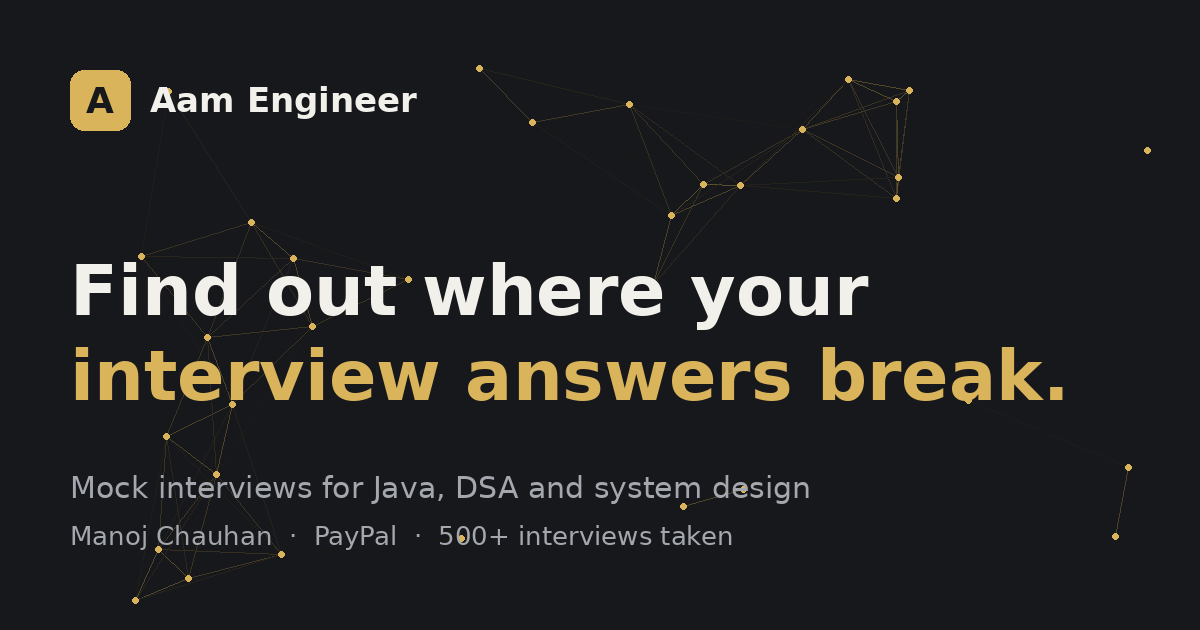
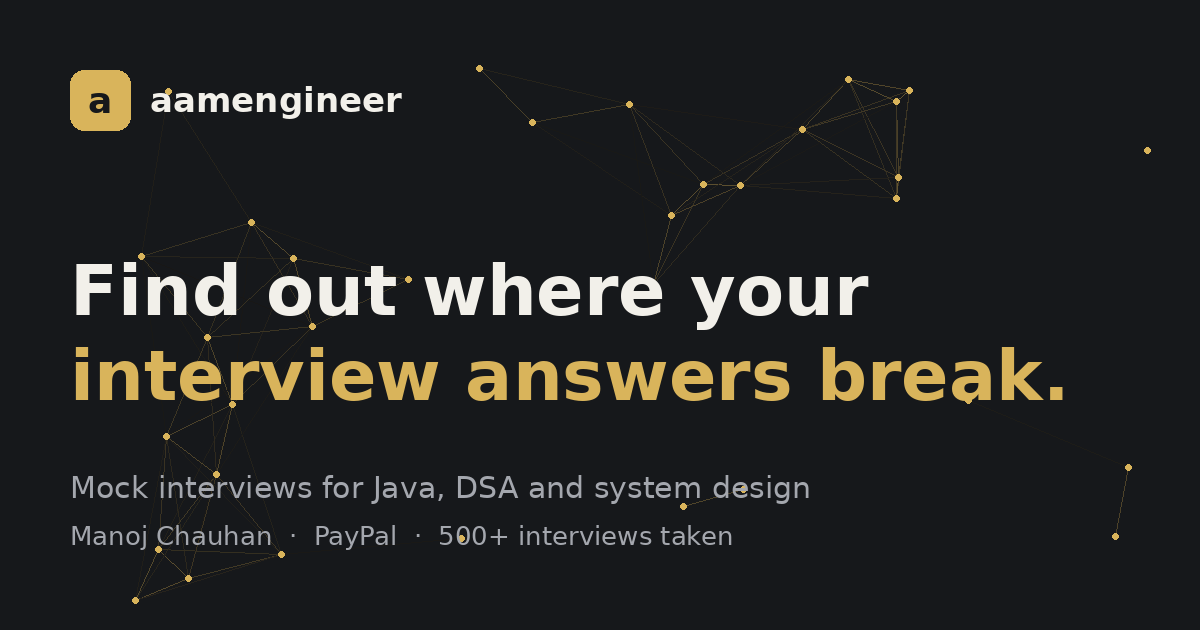
v6

Changed region(s): [[0.1233, 0.1206, 0.3392, 0.2111], [0.0617, 0.1206, 0.0925, 0.181]]

diff --git a/index.html b/index.html
@@ -3,11 +3,11 @@
 <head>
 <meta charset="utf-8">
 <meta name="viewport" content="width=device-width, initial-scale=1">
-<title>Aam Engineer Mock Interviews</title>
-<meta name="description" content="Aam Engineer: 1:1 mock interviews for Java, DSA and system design from Manoj Chauhan, a PayPal engineer who has taken 500+ technical interviews.">
+<title>aamengineer Mock Interviews</title>
+<meta name="description" content="aamengineer: 1:1 mock interviews for Java, DSA and system design from Manoj Chauhan, a PayPal engineer who has taken 500+ technical interviews.">
 <meta property="og:type" content="website">
-<meta property="og:title" content="Aam Engineer Mock Interviews">
-<meta property="og:description" content="Aam Engineer: 1:1 mock interviews for Java, DSA and system design from Manoj Chauhan, a PayPal engineer who has taken 500+ technical interviews.">
+<meta property="og:title" content="aamengineer Mock Interviews">
+<meta property="og:description" content="aamengineer: 1:1 mock interviews for Java, DSA and system design from Manoj Chauhan, a PayPal engineer who has taken 500+ technical interviews.">
 <meta property="og:image" content="https://manuniet.github.io/og.png">
 <meta property="og:url" content="https://manuniet.github.io/">
 <meta name="twitter:card" content="summary_large_image">
@@ -19,6 +19,15 @@
 <link rel="stylesheet" href="styles.css">
 <script async src="https://www.googletagmanager.com/gtag/js?id=G-1EF49W8H0L"></script>
 <script>
+  (function () {
+    var m = ["aamengineer.manoj", "gmail.com"].join("@");
+    document.querySelectorAll("[data-mail]").forEach(function (a) {
+      a.setAttribute("href", "mailto:" + m + "?subject=" + encodeURIComponent("Mock interview enquiry"));
+      if (a.hasAttribute("data-show")) a.textContent = m;
+    });
+  var wa = "https://wa.me/" + ["91", "7503188899"].join("") + "?text=" + encodeURIComponent("Hi Manoj, I'd like to know more about the mock interviews.");
+    document.querySelectorAll("[data-wa]").forEach(function (a) { a.setAttribute("href", wa); a.setAttribute("target", "_blank"); a.setAttribute("rel", "noopener"); });
+  })();
   window.dataLayer = window.dataLayer || [];
   function gtag(){dataLayer.push(arguments);}
   gtag('js', new Date());
@@ -28,7 +37,7 @@
 <body>
 <header class="top">
   <div class="wrap">
-    <a class="brand" href="index.html"><i>A</i><span>Aam Engineer<small>by Manoj Chauhan</small></span></a>
+    <a class="brand" href="index.html"><i>a</i><span>aamengineer<small>by Manoj Chauhan</small></span></a>
     <nav class="links" aria-label="Main">
       <a class="nl" href="index.html" aria-current="page">Mock interviews</a>
       <a class="nl" href="story.html">My story</a>
@@ -44,7 +53,7 @@
     <div class="hero"><canvas class="fx" aria-hidden="true"></canvas>
       <div class="hero-grid">
         <div>
-          <span class="tag">Aam Engineer · mock interviews for Java, DSA and system design</span>
+          <span class="tag">aamengineer · mock interviews for Java, DSA and system design</span>
           <h1>Find out where your interview answers break.</h1>
           <p class="lead">I have taken 500+ technical interviews. In one 60-minute session you get a realistic interview at your level and specific feedback you can act on the same week.</p>
           <div class="cta">
@@ -222,7 +231,7 @@
       </div>
       <div class="sec-body">
         <div class="prose">
-          <p>Rejection after rejection. Tough interviews. Mock after mock until my own work finally made sense out loud. Then an offer at 2 AM on 31 August 2021, and a feeling I can only call stillness.</p>
+          <p>More than 20 rejections. Tough interviews. Mock after mock until my own work finally made sense out loud. Then an offer at 2 AM on 31 August 2021, and a feeling I can only call stillness.</p>
           <p><a class="btn ghost" href="story.html">Read my story</a></p>
         </div>
       </div>
@@ -269,15 +278,15 @@
   <section class="final">
     <div class="wrap">
       <h2>Book one session and see where you stand.</h2>
-      <div class="cta"><a class="btn" data-book href="https://topmate.io/manoj_chauhan/">Book a 60-minute session</a><a class="btn ghost" href="https://www.linkedin.com/in/manojchauhan28/" target="_blank" rel="noopener">Message me on LinkedIn</a></div>
+      <div class="cta"><a class="btn" data-book href="https://topmate.io/manoj_chauhan/">Book a 60-minute session</a><a class="btn ghost" href="https://www.linkedin.com/in/manojchauhan28/" target="_blank" rel="noopener">Message me on LinkedIn</a><a class="btn ghost" data-mail href="#">Email me</a><a class="btn ghost" data-wa href="#">WhatsApp me</a></div>
     </div>
   </section>
 </main>
 
 <footer>
   <div class="wrap">
-    <span>Aam Engineer · Manoj Chauhan, Bengaluru<span class="vc" id="visit-count" hidden></span></span>
-    <span class="links"><a href="https://www.linkedin.com/in/manojchauhan28/" target="_blank" rel="noopener">LinkedIn</a><a href="https://www.instagram.com/themanojsphere" target="_blank" rel="noopener">Instagram</a></span>
+    <span>aamengineer · Manoj Chauhan, Bengaluru<span class="vc" id="visit-count" hidden></span></span>
+    <span class="links"><a data-mail data-show href="#">Email</a><a data-wa href="#">WhatsApp</a><a href="https://www.linkedin.com/in/manojchauhan28/" target="_blank" rel="noopener">LinkedIn</a><a href="https://www.instagram.com/themanojsphere" target="_blank" rel="noopener">Instagram</a></span>
   </div>
 </footer>
 <script>

diff --git a/story.html b/story.html
@@ -3,10 +3,10 @@
 <head>
 <meta charset="utf-8">
 <meta name="viewport" content="width=device-width, initial-scale=1">
-<title>My Story | Aam Engineer</title>
+<title>My Story | aamengineer</title>
 <meta name="description" content="How Manoj Chauhan moved from a service company to PayPal: rejections, tough interviews, mock practice and an offer at 2 AM.">
 <meta property="og:type" content="website">
-<meta property="og:title" content="My Story | Aam Engineer">
+<meta property="og:title" content="My Story | aamengineer">
 <meta property="og:description" content="How Manoj Chauhan moved from a service company to PayPal: rejections, tough interviews, mock practice and an offer at 2 AM.">
 <meta property="og:image" content="https://manuniet.github.io/og.png">
 <meta property="og:url" content="https://manuniet.github.io/">
@@ -19,6 +19,15 @@
 <link rel="stylesheet" href="styles.css">
 <script async src="https://www.googletagmanager.com/gtag/js?id=G-1EF49W8H0L"></script>
 <script>
+  (function () {
+    var m = ["aamengineer.manoj", "gmail.com"].join("@");
+    document.querySelectorAll("[data-mail]").forEach(function (a) {
+      a.setAttribute("href", "mailto:" + m + "?subject=" + encodeURIComponent("Mock interview enquiry"));
+      if (a.hasAttribute("data-show")) a.textContent = m;
+    });
+  var wa = "https://wa.me/" + ["91", "7503188899"].join("") + "?text=" + encodeURIComponent("Hi Manoj, I'd like to know more about the mock interviews.");
+    document.querySelectorAll("[data-wa]").forEach(function (a) { a.setAttribute("href", wa); a.setAttribute("target", "_blank"); a.setAttribute("rel", "noopener"); });
+  })();
   window.dataLayer = window.dataLayer || [];
   function gtag(){dataLayer.push(arguments);}
   gtag('js', new Date());
@@ -28,7 +37,7 @@
 <body>
 <header class="top">
   <div class="wrap">
-    <a class="brand" href="index.html"><i>A</i><span>Aam Engineer<small>by Manoj Chauhan</small></span></a>
+    <a class="brand" href="index.html"><i>a</i><span>aamengineer<small>by Manoj Chauhan</small></span></a>
     <nav class="links" aria-label="Main">
       <a class="nl" href="index.html">Mock interviews</a>
       <a class="nl" href="story.html" aria-current="page">My story</a>
@@ -44,7 +53,7 @@
     <div class="page-hero"><canvas class="fx" aria-hidden="true"></canvas>
       <span class="tag">My story</span>
       <h1>From a service company to PayPal.</h1>
-      <p class="lead">It took rejections, tough interviews and a lot of practice. This is how it happened.</p>
+      <p class="lead">It took more than 20 rejections, tough interviews and a lot of practice. This is how it happened.</p>
       <ul class="rail" aria-label="Career timeline">
         <li><b>2014</b>Accenture</li>
         <li><b>2017</b>Deloitte</li>
@@ -88,11 +97,11 @@
     <div class="wrap">
       <div class="sec-head">
         <div class="label">03 / the rejections</div>
-        <h2>Rejected. Again.</h2>
+        <h2>Rejected. More than 20 times.</h2>
       </div>
       <div class="sec-body">
         <div class="prose">
-          <p>Rejection came after rejection. The interviews were tough and they went deeper than I expected. Interviewers asked follow-up questions about my own projects, about decisions I had never really questioned.</p>
+          <p>More than 20 rejections. That is how many times I heard no before I heard yes. The interviews were tough and they went deeper than I expected. Interviewers asked follow-up questions about my own projects, about decisions I had never really questioned.</p>
           <p>Each rejection hurt. Each one also showed me exactly what was missing.</p>
         </div>
       </div>
@@ -163,15 +172,15 @@
   <section class="final">
     <div class="wrap">
       <h2>Want to practise with someone who has been on both sides?</h2>
-      <div class="cta"><a class="btn" data-book href="https://topmate.io/manoj_chauhan/">Book a 60-minute session</a></div>
+      <div class="cta"><a class="btn" data-book href="https://topmate.io/manoj_chauhan/">Book a 60-minute session</a><a class="btn ghost" data-mail href="#">Email me</a><a class="btn ghost" data-wa href="#">WhatsApp me</a></div>
     </div>
   </section>
 </main>
 
 <footer>
   <div class="wrap">
-    <span>Aam Engineer · Manoj Chauhan, Bengaluru<span class="vc" id="visit-count" hidden></span></span>
-    <span class="links"><a href="https://www.linkedin.com/in/manojchauhan28/" target="_blank" rel="noopener">LinkedIn</a><a href="https://www.instagram.com/themanojsphere" target="_blank" rel="noopener">Instagram</a></span>
+    <span>aamengineer · Manoj Chauhan, Bengaluru<span class="vc" id="visit-count" hidden></span></span>
+    <span class="links"><a data-mail data-show href="#">Email</a><a data-wa href="#">WhatsApp</a><a href="https://www.linkedin.com/in/manojchauhan28/" target="_blank" rel="noopener">LinkedIn</a><a href="https://www.instagram.com/themanojsphere" target="_blank" rel="noopener">Instagram</a></span>
   </div>
 </footer>
 <script>

diff --git a/resume.html b/resume.html
@@ -19,6 +19,15 @@
 <link rel="stylesheet" href="styles.css">
 <script async src="https://www.googletagmanager.com/gtag/js?id=G-1EF49W8H0L"></script>
 <script>
+  (function () {
+    var m = ["aamengineer.manoj", "gmail.com"].join("@");
+    document.querySelectorAll("[data-mail]").forEach(function (a) {
+      a.setAttribute("href", "mailto:" + m + "?subject=" + encodeURIComponent("Mock interview enquiry"));
+      if (a.hasAttribute("data-show")) a.textContent = m;
+    });
+  var wa = "https://wa.me/" + ["91", "7503188899"].join("") + "?text=" + encodeURIComponent("Hi Manoj, I'd like to know more about the mock interviews.");
+    document.querySelectorAll("[data-wa]").forEach(function (a) { a.setAttribute("href", wa); a.setAttribute("target", "_blank"); a.setAttribute("rel", "noopener"); });
+  })();
   window.dataLayer = window.dataLayer || [];
   function gtag(){dataLayer.push(arguments);}
   gtag('js', new Date());
@@ -28,7 +37,7 @@
 <body>
 <header class="top">
   <div class="wrap">
-    <a class="brand" href="index.html"><i>A</i><span>Aam Engineer<small>by Manoj Chauhan</small></span></a>
+    <a class="brand" href="index.html"><i>a</i><span>aamengineer<small>by Manoj Chauhan</small></span></a>
     <nav class="links" aria-label="Main">
       <a class="nl" href="index.html">Mock interviews</a>
       <a class="nl" href="story.html">My story</a>
@@ -154,15 +163,15 @@
   <section class="final">
     <div class="wrap">
       <h2>Preparing for a backend interview?</h2>
-      <div class="cta"><a class="btn" data-book href="https://topmate.io/manoj_chauhan/">Book a 60-minute session</a></div>
+      <div class="cta"><a class="btn" data-book href="https://topmate.io/manoj_chauhan/">Book a 60-minute session</a><a class="btn ghost" data-mail href="#">Email me</a><a class="btn ghost" data-wa href="#">WhatsApp me</a></div>
     </div>
   </section>
 </main>
 
 <footer>
   <div class="wrap">
-    <span>Aam Engineer · Manoj Chauhan, Bengaluru<span class="vc" id="visit-count" hidden></span></span>
-    <span class="links"><a href="https://www.linkedin.com/in/manojchauhan28/" target="_blank" rel="noopener">LinkedIn</a><a href="https://www.instagram.com/themanojsphere" target="_blank" rel="noopener">Instagram</a></span>
+    <span>aamengineer · Manoj Chauhan, Bengaluru<span class="vc" id="visit-count" hidden></span></span>
+    <span class="links"><a data-mail data-show href="#">Email</a><a data-wa href="#">WhatsApp</a><a href="https://www.linkedin.com/in/manojchauhan28/" target="_blank" rel="noopener">LinkedIn</a><a href="https://www.instagram.com/themanojsphere" target="_blank" rel="noopener">Instagram</a></span>
   </div>
 </footer>
 <script>

diff --git a/hobbies.html b/hobbies.html
@@ -19,6 +19,15 @@
 <link rel="stylesheet" href="styles.css">
 <script async src="https://www.googletagmanager.com/gtag/js?id=G-1EF49W8H0L"></script>
 <script>
+  (function () {
+    var m = ["aamengineer.manoj", "gmail.com"].join("@");
+    document.querySelectorAll("[data-mail]").forEach(function (a) {
+      a.setAttribute("href", "mailto:" + m + "?subject=" + encodeURIComponent("Mock interview enquiry"));
+      if (a.hasAttribute("data-show")) a.textContent = m;
+    });
+  var wa = "https://wa.me/" + ["91", "7503188899"].join("") + "?text=" + encodeURIComponent("Hi Manoj, I'd like to know more about the mock interviews.");
+    document.querySelectorAll("[data-wa]").forEach(function (a) { a.setAttribute("href", wa); a.setAttribute("target", "_blank"); a.setAttribute("rel", "noopener"); });
+  })();
   window.dataLayer = window.dataLayer || [];
   function gtag(){dataLayer.push(arguments);}
   gtag('js', new Date());
@@ -28,7 +37,7 @@
 <body>
 <header class="top">
   <div class="wrap">
-    <a class="brand" href="index.html"><i>A</i><span>Aam Engineer<small>by Manoj Chauhan</small></span></a>
+    <a class="brand" href="index.html"><i>a</i><span>aamengineer<small>by Manoj Chauhan</small></span></a>
     <nav class="links" aria-label="Main">
       <a class="nl" href="index.html">Mock interviews</a>
       <a class="nl" href="story.html">My story</a>
@@ -70,15 +79,15 @@
   <section class="final">
     <div class="wrap">
       <h2>Prepping for a backend interview?</h2>
-      <div class="cta"><a class="btn" data-book href="https://topmate.io/manoj_chauhan/">Book a 60-minute session</a></div>
+      <div class="cta"><a class="btn" data-book href="https://topmate.io/manoj_chauhan/">Book a 60-minute session</a><a class="btn ghost" data-mail href="#">Email me</a><a class="btn ghost" data-wa href="#">WhatsApp me</a></div>
     </div>
   </section>
 </main>
 
 <footer>
   <div class="wrap">
-    <span>Aam Engineer · Manoj Chauhan, Bengaluru<span class="vc" id="visit-count" hidden></span></span>
-    <span class="links"><a href="https://www.linkedin.com/in/manojchauhan28/" target="_blank" rel="noopener">LinkedIn</a><a href="https://www.instagram.com/themanojsphere" target="_blank" rel="noopener">Instagram</a></span>
+    <span>aamengineer · Manoj Chauhan, Bengaluru<span class="vc" id="visit-count" hidden></span></span>
+    <span class="links"><a data-mail data-show href="#">Email</a><a data-wa href="#">WhatsApp</a><a href="https://www.linkedin.com/in/manojchauhan28/" target="_blank" rel="noopener">LinkedIn</a><a href="https://www.instagram.com/themanojsphere" target="_blank" rel="noopener">Instagram</a></span>
   </div>
 </footer>
 <script>

diff --git a/README.md b/README.md
@@ -1,8 +1,8 @@
-# Aam Engineer
+# aamengineer
 
 Personal site of **Manoj Chauhan**, Member of Technical Staff at PayPal, who offers 1:1 mock interviews for Java, DSA and system design.
 
-**Live site:** https://manuniet.github.io
+**Live site:** https://aamengineer-manoj.github.io
 
 ## What is on the site
 
@@ -52,6 +52,7 @@ Common edits:
 
 ## Contact
 
+- Email: aamengineer.manoj@gmail.com
 - LinkedIn: https://www.linkedin.com/in/manojchauhan28/
 - Instagram: https://www.instagram.com/themanojsphere
 
